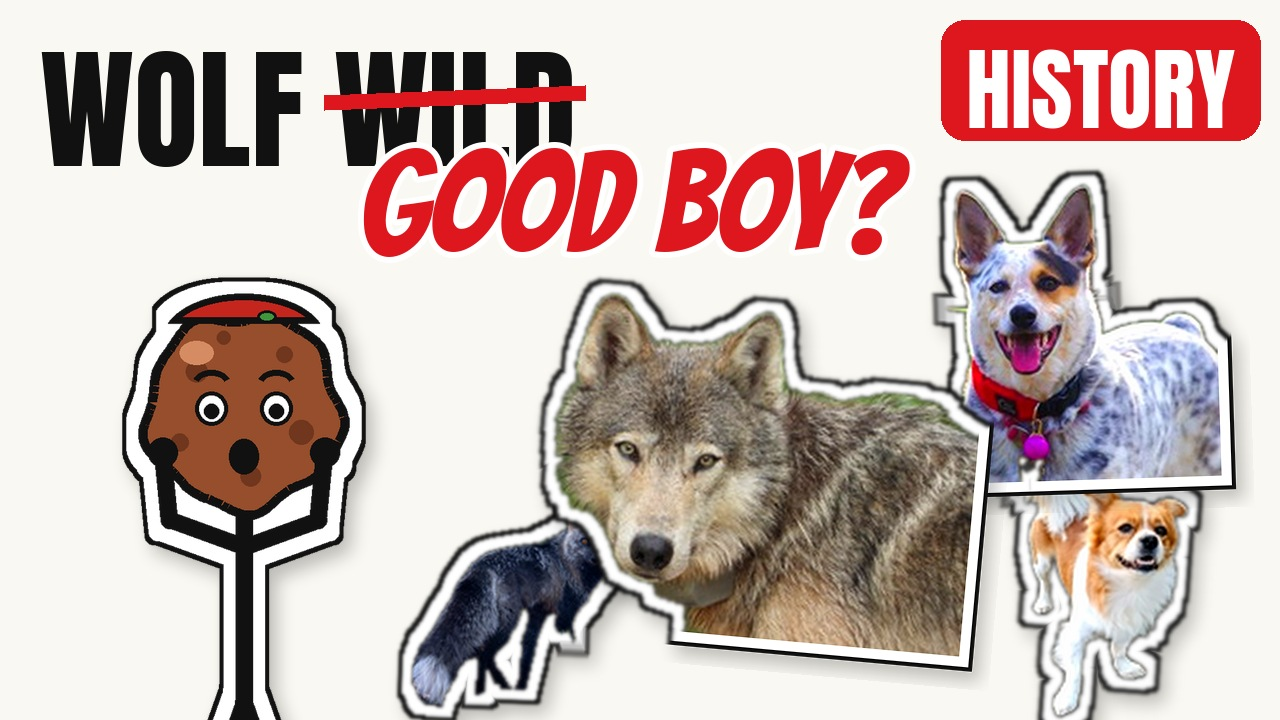
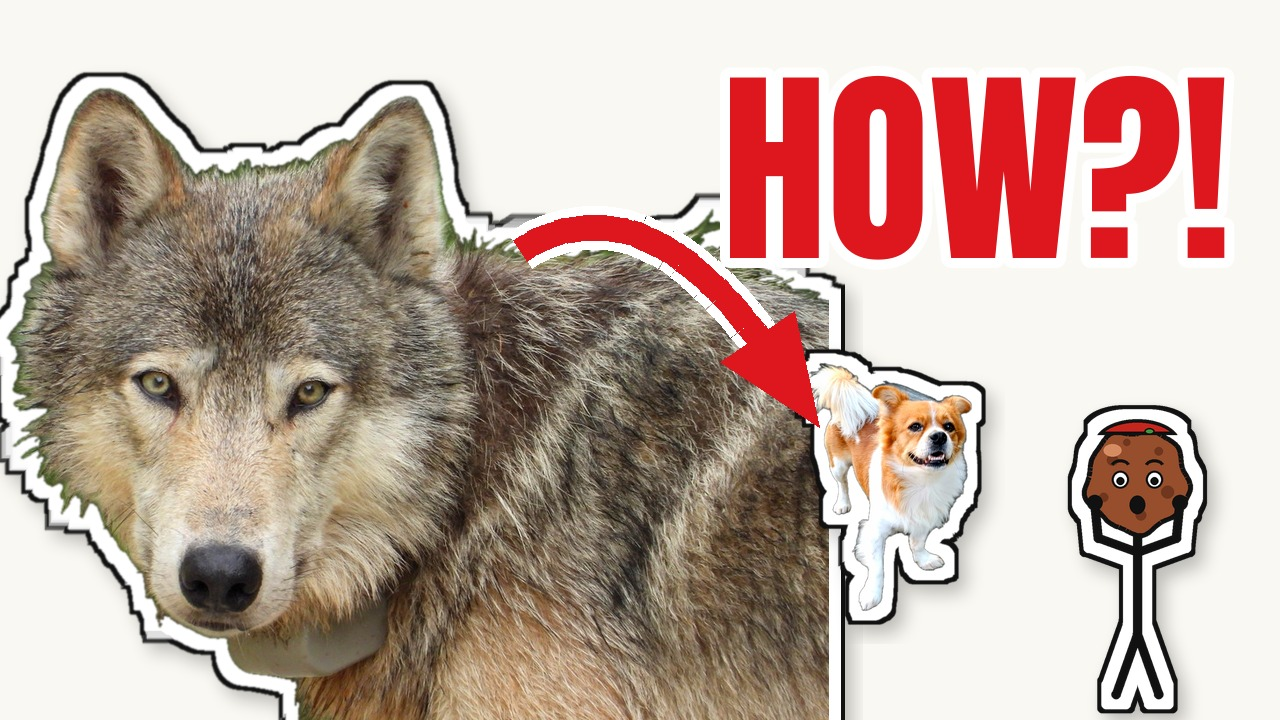
Transformation thumbnail template (wolf -> lap dog) for history episodes
Claude-Session: https://claude.ai/code/session_01B6g5mJGtBmh6CLoEx3Vyyw

diff --git a/skills/oh-meatball/tools/thumb_evo.py b/skills/oh-meatball/tools/thumb_evo.py
@@ -1,0 +1,66 @@
+#!/usr/bin/env python3
+"""Transformation thumbnail for history episodes: a big "before" animal, a red arrow, a comically small
+"after" animal, one word of text and a shocked Meatball. The joke is the size gap (wolf -> lap dog), so
+the thumbnail adds something the title doesn't say. Bottom-right stays clear for YouTube's timestamp.
+
+Usage: thumb_evo.py OUT.jpg BEFORE.jpg AFTER.jpg [--word "HOW?!"]
+"""
+import argparse
+import math
+
+from PIL import Image, ImageDraw, ImageFont
+
+from mascot import draw
+from thumb3 import H, HEAVY, INK, PAPER, RED, W, cutout, sticker
+
+
+def arrow(d, a, b, bend, width=26):
+    """Curved hand-drawn arrow from a to b (quadratic curve) with a white halo, red body and a fat head."""
+    (x0, y0), (x1, y1) = a, b
+    cx, cy = (x0 + x1) / 2, (y0 + y1) / 2 - bend
+    pts = [((1 - t) ** 2 * x0 + 2 * (1 - t) * t * cx + t * t * x1, (1 - t) ** 2 * y0 + 2 * (1 - t) * t * cy + t * t * y1)
+           for t in [i / 40 for i in range(41)]]
+    ang = math.atan2(pts[-1][1] - pts[-4][1], pts[-1][0] - pts[-4][0])
+    head = [(x1 + 70 * math.cos(ang), y1 + 70 * math.sin(ang)),
+            (x1 + 60 * math.cos(ang + 2.3), y1 + 60 * math.sin(ang + 2.3)),
+            (x1 + 60 * math.cos(ang - 2.3), y1 + 60 * math.sin(ang - 2.3))]
+    for w, col in ((width + 18, (255, 255, 255)), (width, RED)):
+        d.line(pts, fill=col, width=w, joint="curve")
+        d.polygon(head, fill=col, outline=col, width=w - width + 2)
+
+
+def main():
+    ap = argparse.ArgumentParser()
+    ap.add_argument("out")
+    ap.add_argument("before")
+    ap.add_argument("after")
+    ap.add_argument("--word", default="HOW?!")
+    a = ap.parse_args()
+    c = Image.new("RGBA", (W, H), PAPER + (255,))
+    d = ImageDraw.Draw(c)
+
+    big = cutout(a.before)
+    s = 640 / big.height
+    big = sticker(big.resize((int(big.width * s), int(big.height * s)), Image.LANCZOS), edge=12, rim=4)
+    c.alpha_composite(big, (-30, H - big.height + 40))
+
+    small = cutout(a.after)
+    s = 250 / small.height
+    small = sticker(small.resize((int(small.width * s), int(small.height * s)), Image.LANCZOS), edge=10, rim=4)
+    sx, sy = 760, 330
+    c.alpha_composite(small, (sx, sy))
+
+    arrow(d, (520, 250), (sx + 20, sy + 40), bend=140)
+
+    f = ImageFont.truetype(HEAVY, 210)
+    tw = d.textlength(a.word, font=f)
+    d.text((W - tw - 50, 10), a.word, font=f, fill=RED, stroke_width=10, stroke_fill=(255, 255, 255))
+
+    m = sticker(draw("shock", 900).crop((120, 80, 880, 1000)).resize((300, 363), Image.LANCZOS), edge=10, rim=4)
+    c.alpha_composite(m, (sx + small.width - 30, H - m.height + 60))
+    c.convert("RGB").save(a.out, quality=92)
+    print("ok", a.out)
+
+
+if __name__ == "__main__":
+    main()
